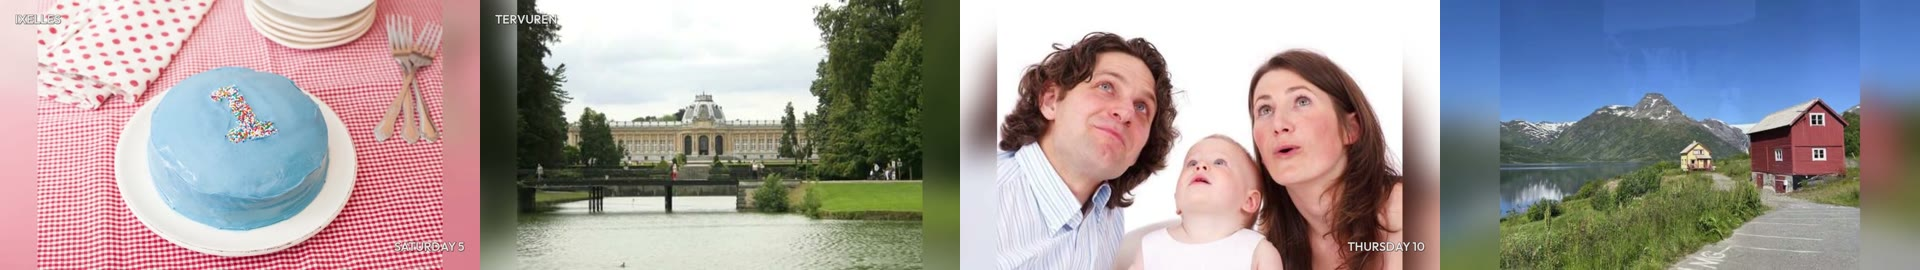
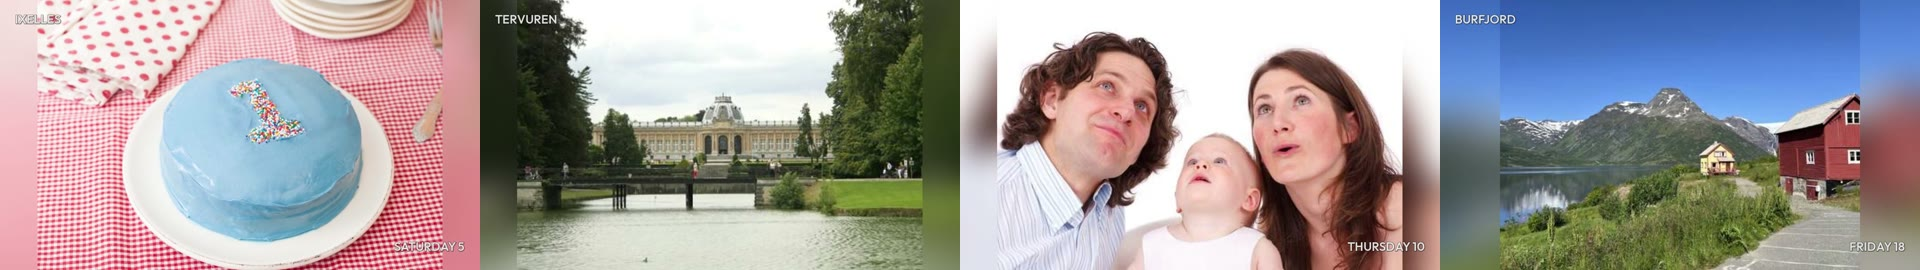
docs(better): re-record one month, three tiers on the 1.0.0 development build (#2876)
Cut the demo July again on Basic, GPU and Full with the defaults. The
three tiers still pick the same 15 shots and render frame-identical
films. Times are now 54 s, 76 s and 95 s (were 71 s, 99 s and 126 s),
and no tier writes a summary, since model-written titles are off by
default. The page names the build and the hardware (M5 Max, 128 GB),
drops the old earlier-run ranges it can no longer trace, and counts
Full's reader calls. The overview quotes the new times.

The recorder no longer writes the operator's reader model name into
the provenance.

Claude-Session: https://claude.ai/code/session_01MyXy9TrDiUoLPKbEhf75Js

diff --git a/scripts/record_tier_example.py b/scripts/record_tier_example.py
@@ -9,7 +9,8 @@ one tier to the next, and the same bundled track, so the films differ only in wh
 
 GPU and Full read the caption server the Apple Silicon setup starts (`caption_base_url`); Full
 also reads the model the operator's own config names (`llm` in `~/.immich-memories/config.yaml`),
-copied into its home and never printed. Nothing else is read from the operator's home.
+copied into its home, never printed and never named in the provenance. Nothing else is read
+from the operator's home.
 
 It writes the web copy of the film and a contact sheet under `docs-site/static/demo/tiers/`:
 one `month.mp4` when every tier rendered the same frames, else one per tier. `provenance.json`
@@ -258,7 +259,8 @@ def main() -> None:
         request=[a if a != str(TRACK) else TRACK.name for a in REQUEST],
         services={
             "captioner": "smolvlm2-500m-base-public (gpu, full)",
-            "reader": _operator_llm().get("model") if "full" in (args.only or TIERS) else None,
+            # The operator's own model server: which one stays out of a public file.
+            "reader": "the operator's own (full)" if "full" in (args.only or TIERS) else None,
         },
     )
     tiers = provenance.setdefault("tiers", {})

diff --git a/docs-site/docs/better/tier-example.md b/docs-site/docs/better/tier-example.md
@@ -12,8 +12,8 @@ import Video from '@site/src/components/Video';
 July 2025 of the demo library, cut once on each tier: Basic, GPU and Full. The library is
 [Wikimedia Commons photographs](https://github.com/sam-dumont/immich-memories/blob/main/tests/e2e/fixtures/library/CREDITS.md)
 (CC0 or CC BY) with an invented household on top: Kit's birthday, the grandparents' visit, a road
-trip to Nordkapp. It ran on a 1.0.0 development build, on a Mac (Apple Silicon), against a real
-Immich seeded with the library. No personal library was used.
+trip to Nordkapp. It ran on a development build of 1.0.0 (between rc.10 and rc.11), on an M5 Max
+Mac with 128 GB, against a real Immich seeded with the library. No personal library was used.
 
 Every tier got the same request: a 60-second monthly highlight, photos on, family sharing, the
 app's own title, and the same bundled track (`calm_acoustic_1.opus`, MIT licensed like the rest of
@@ -40,19 +40,19 @@ library with more lookalike pictures per moment gives the extra evidence more to
 | Shots in the cut | 15 | 15 | 15 |
 | Pictures checked by the local classifiers | 1,131 | 1,131 | 1,131 |
 | Captions written (local SmolVLM server) | none | 15 | 15 |
-| Summary of the film, with `llm_titles` on | the stories in order | the stories in order | written by the reader |
-| Time from request to finished film | 71 s | 99 s | 126 s |
+| Calls to the text reader (a local model) | none | none | 6 |
+| Summary of the film | none | none | none |
+| Time from request to finished film | 54 s | 76 s | 95 s |
 
-The summary is experimental and off by default (`title_screens.llm_titles`, or `--llm-title` for
-one run). When it's on, it's what [`runs story`](../make/cli/runs.md) prints and what goes into the
-Immich description on upload. Basic and GPU list the stories: "Kit's birthday, then Lou and Pat's visit,
-then The road north". Full's reader wrote: "The period included ordinary days at home and several
-visits. Kit's birthday and Lou and Pat's visit were major events, while The road north was a
-major trip spanning from July 12th to July 31st."
+No tier wrote a summary because none was asked for. Model-written titles and the summary are
+experimental and off by default (`title_screens.llm_titles`, or `--llm-title` for one run). Turn
+them on and the summary is what [`runs story`](../make/cli/runs.md) prints and what goes into the
+Immich description on upload. Full still asks its reader with them off: 26 model calls in that
+run, 20 of them the captions and other preparation, 6 to the reader refining the rules draft.
 
-The time is one run each on one machine. Two earlier runs of the same three took 76 to 108 s
-(Basic), 106 to 129 s (GPU) and 136 to 200 s (Full): read the order, not the numbers. Rendering
-itself took about 23 s on every tier; the difference is preparation.
+The time is one run per tier on one machine: read the order, not the numbers. Rendering took
+28 s on Basic, the first run, and 19 s on GPU and Full; the rest of the gap is preparation (24 s on
+Basic, 56 s on GPU, 74 s on Full).
 
 This is one month of a small, curated library, cut once per tier. It shows what each tier adds
 and what it cost here, not that one tier always makes a better or a different film.

diff --git a/docs-site/docs/better/overview.md b/docs-site/docs/better/overview.md
@@ -16,6 +16,6 @@ and Full tiers.
 | [Render on a GPU box](./gpu-render.md) | The encode and most per-frame work moved to an NVIDIA card | A trusted worker that holds your Immich key |
 | [Generated music](./music.md) | An original track for each film instead of a bundled one | ACE-Step XL: a Mac with 64 GB of unified memory or a 16 GB NVIDIA card, about 21 GB of memory and 20 GB of disk |
 
-On one demo month, Basic took 71 s, GPU 99 s and Full 126 s, and all three picked the same 15
+On one demo month, Basic took 54 s, GPU 76 s and Full 95 s, and all three picked the same 15
 shots: [one month, three tiers](./tier-example.md). [Measure your setup](./measured.md) has the
 rest of the numbers and the hardware behind them.
